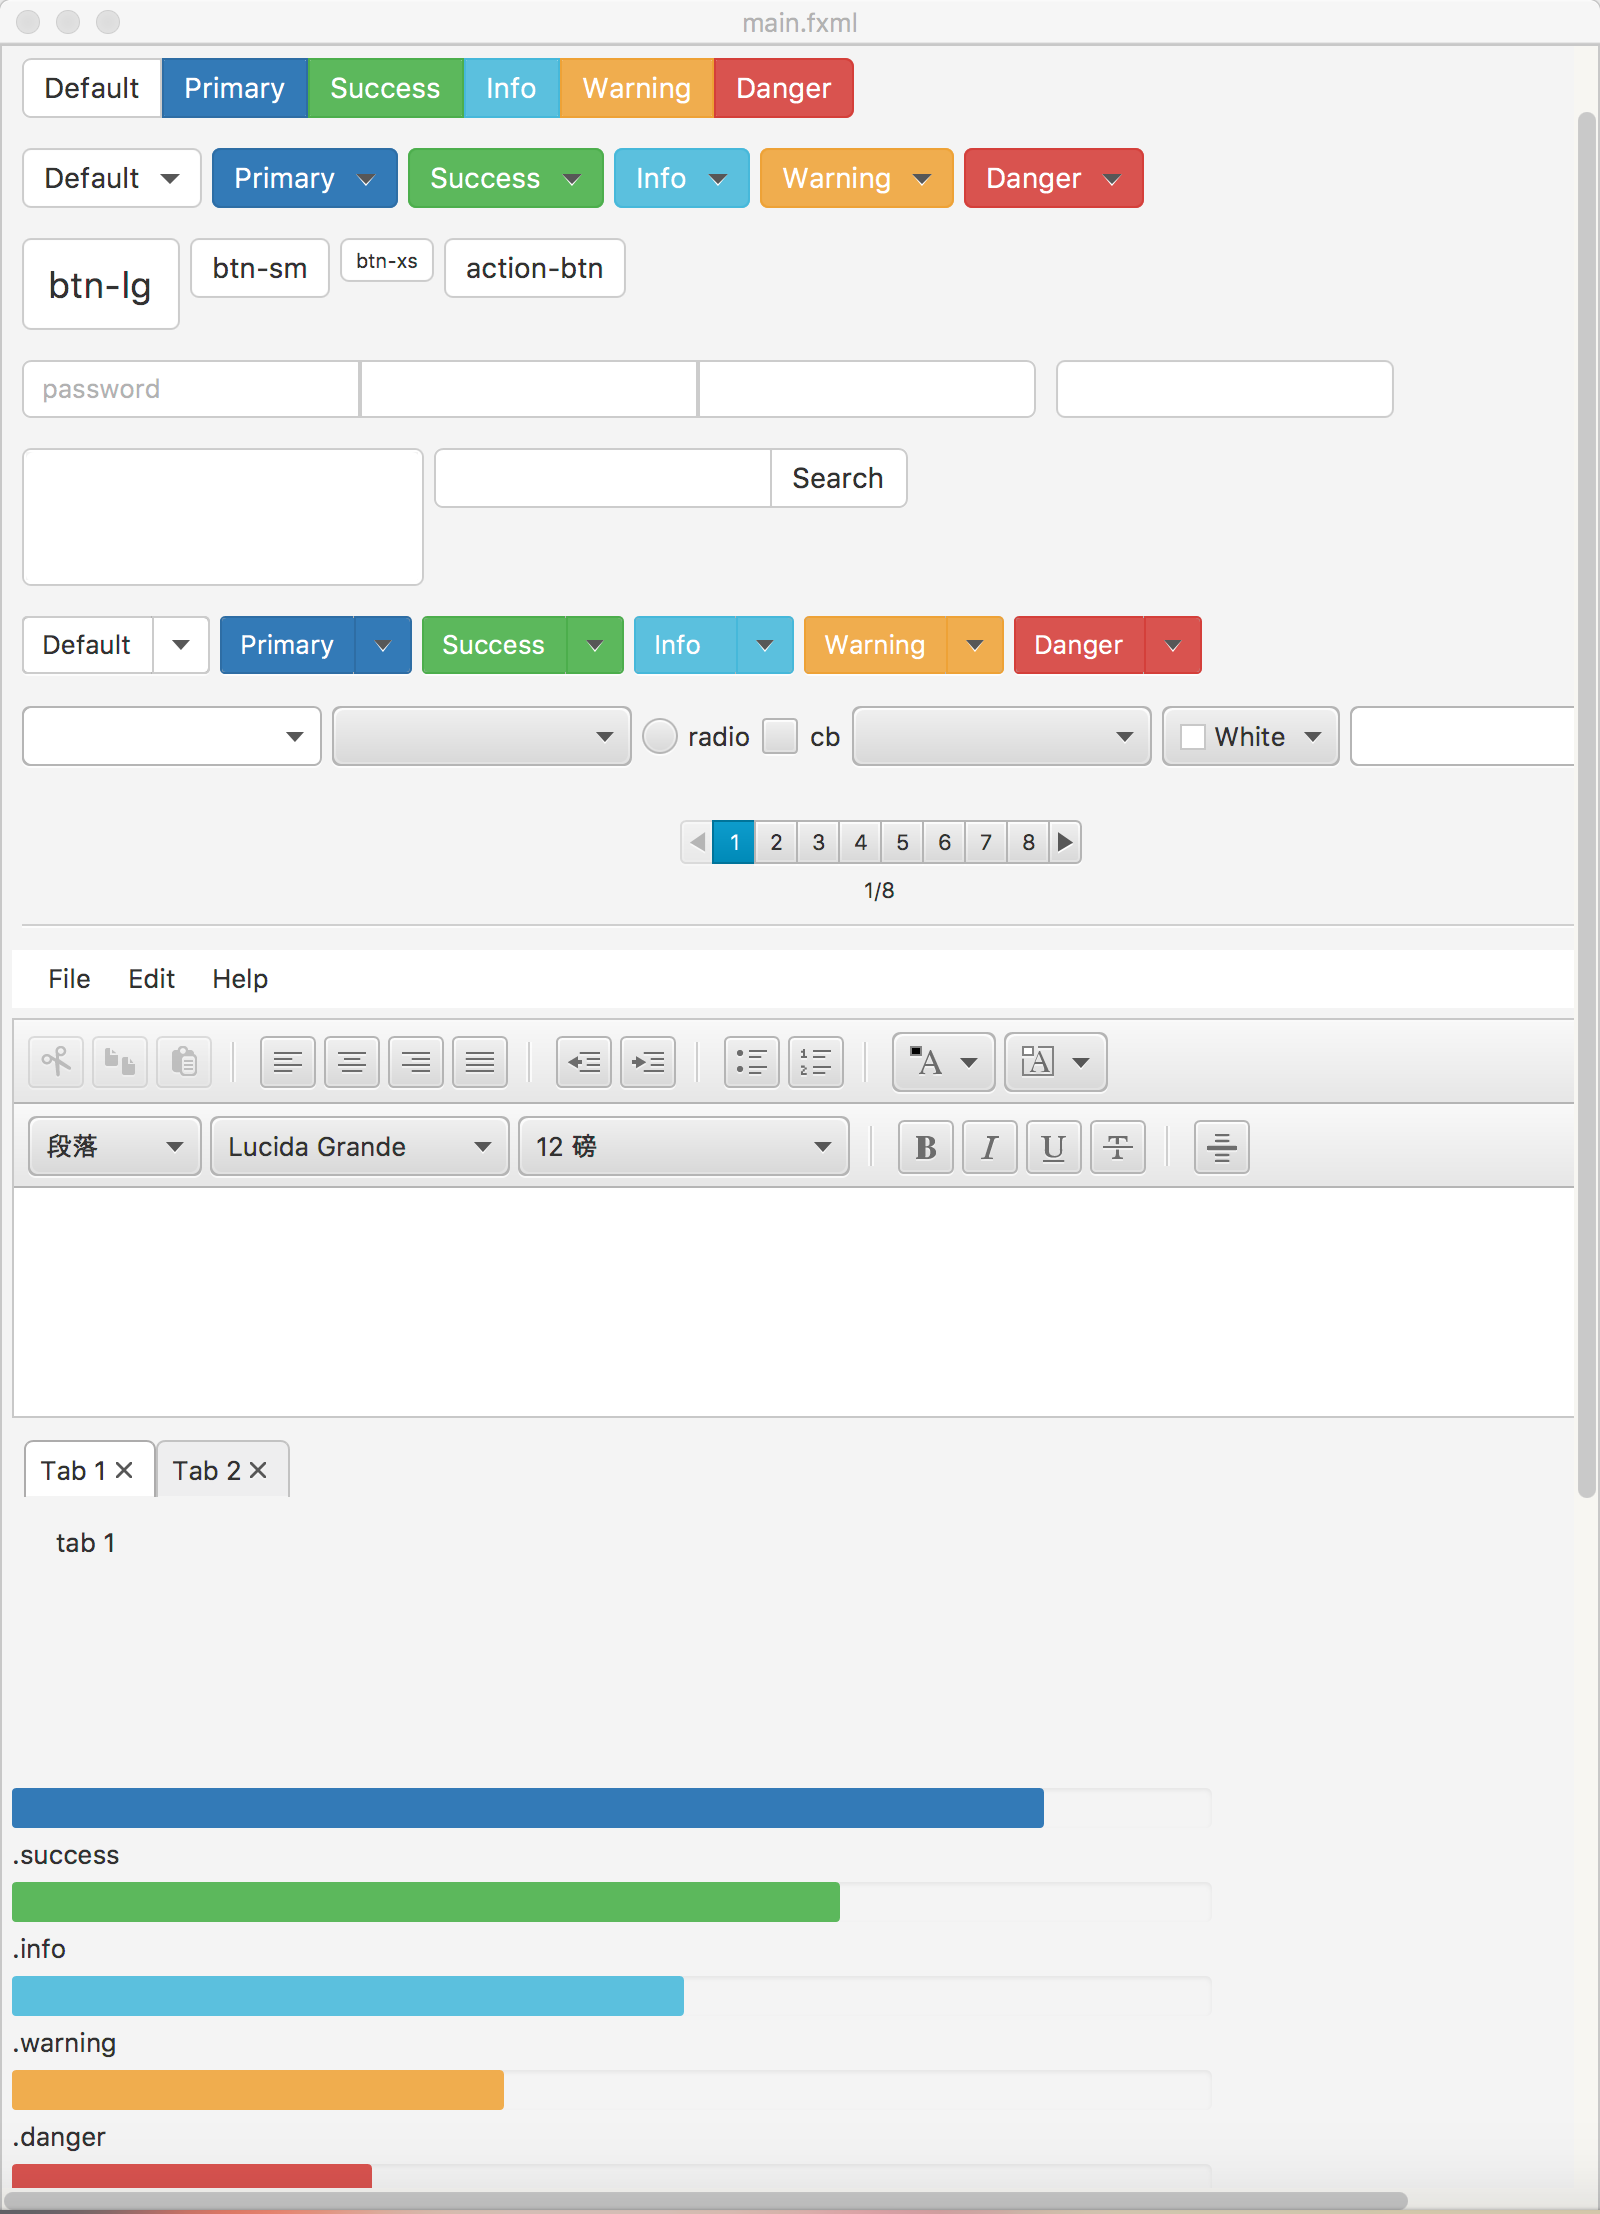
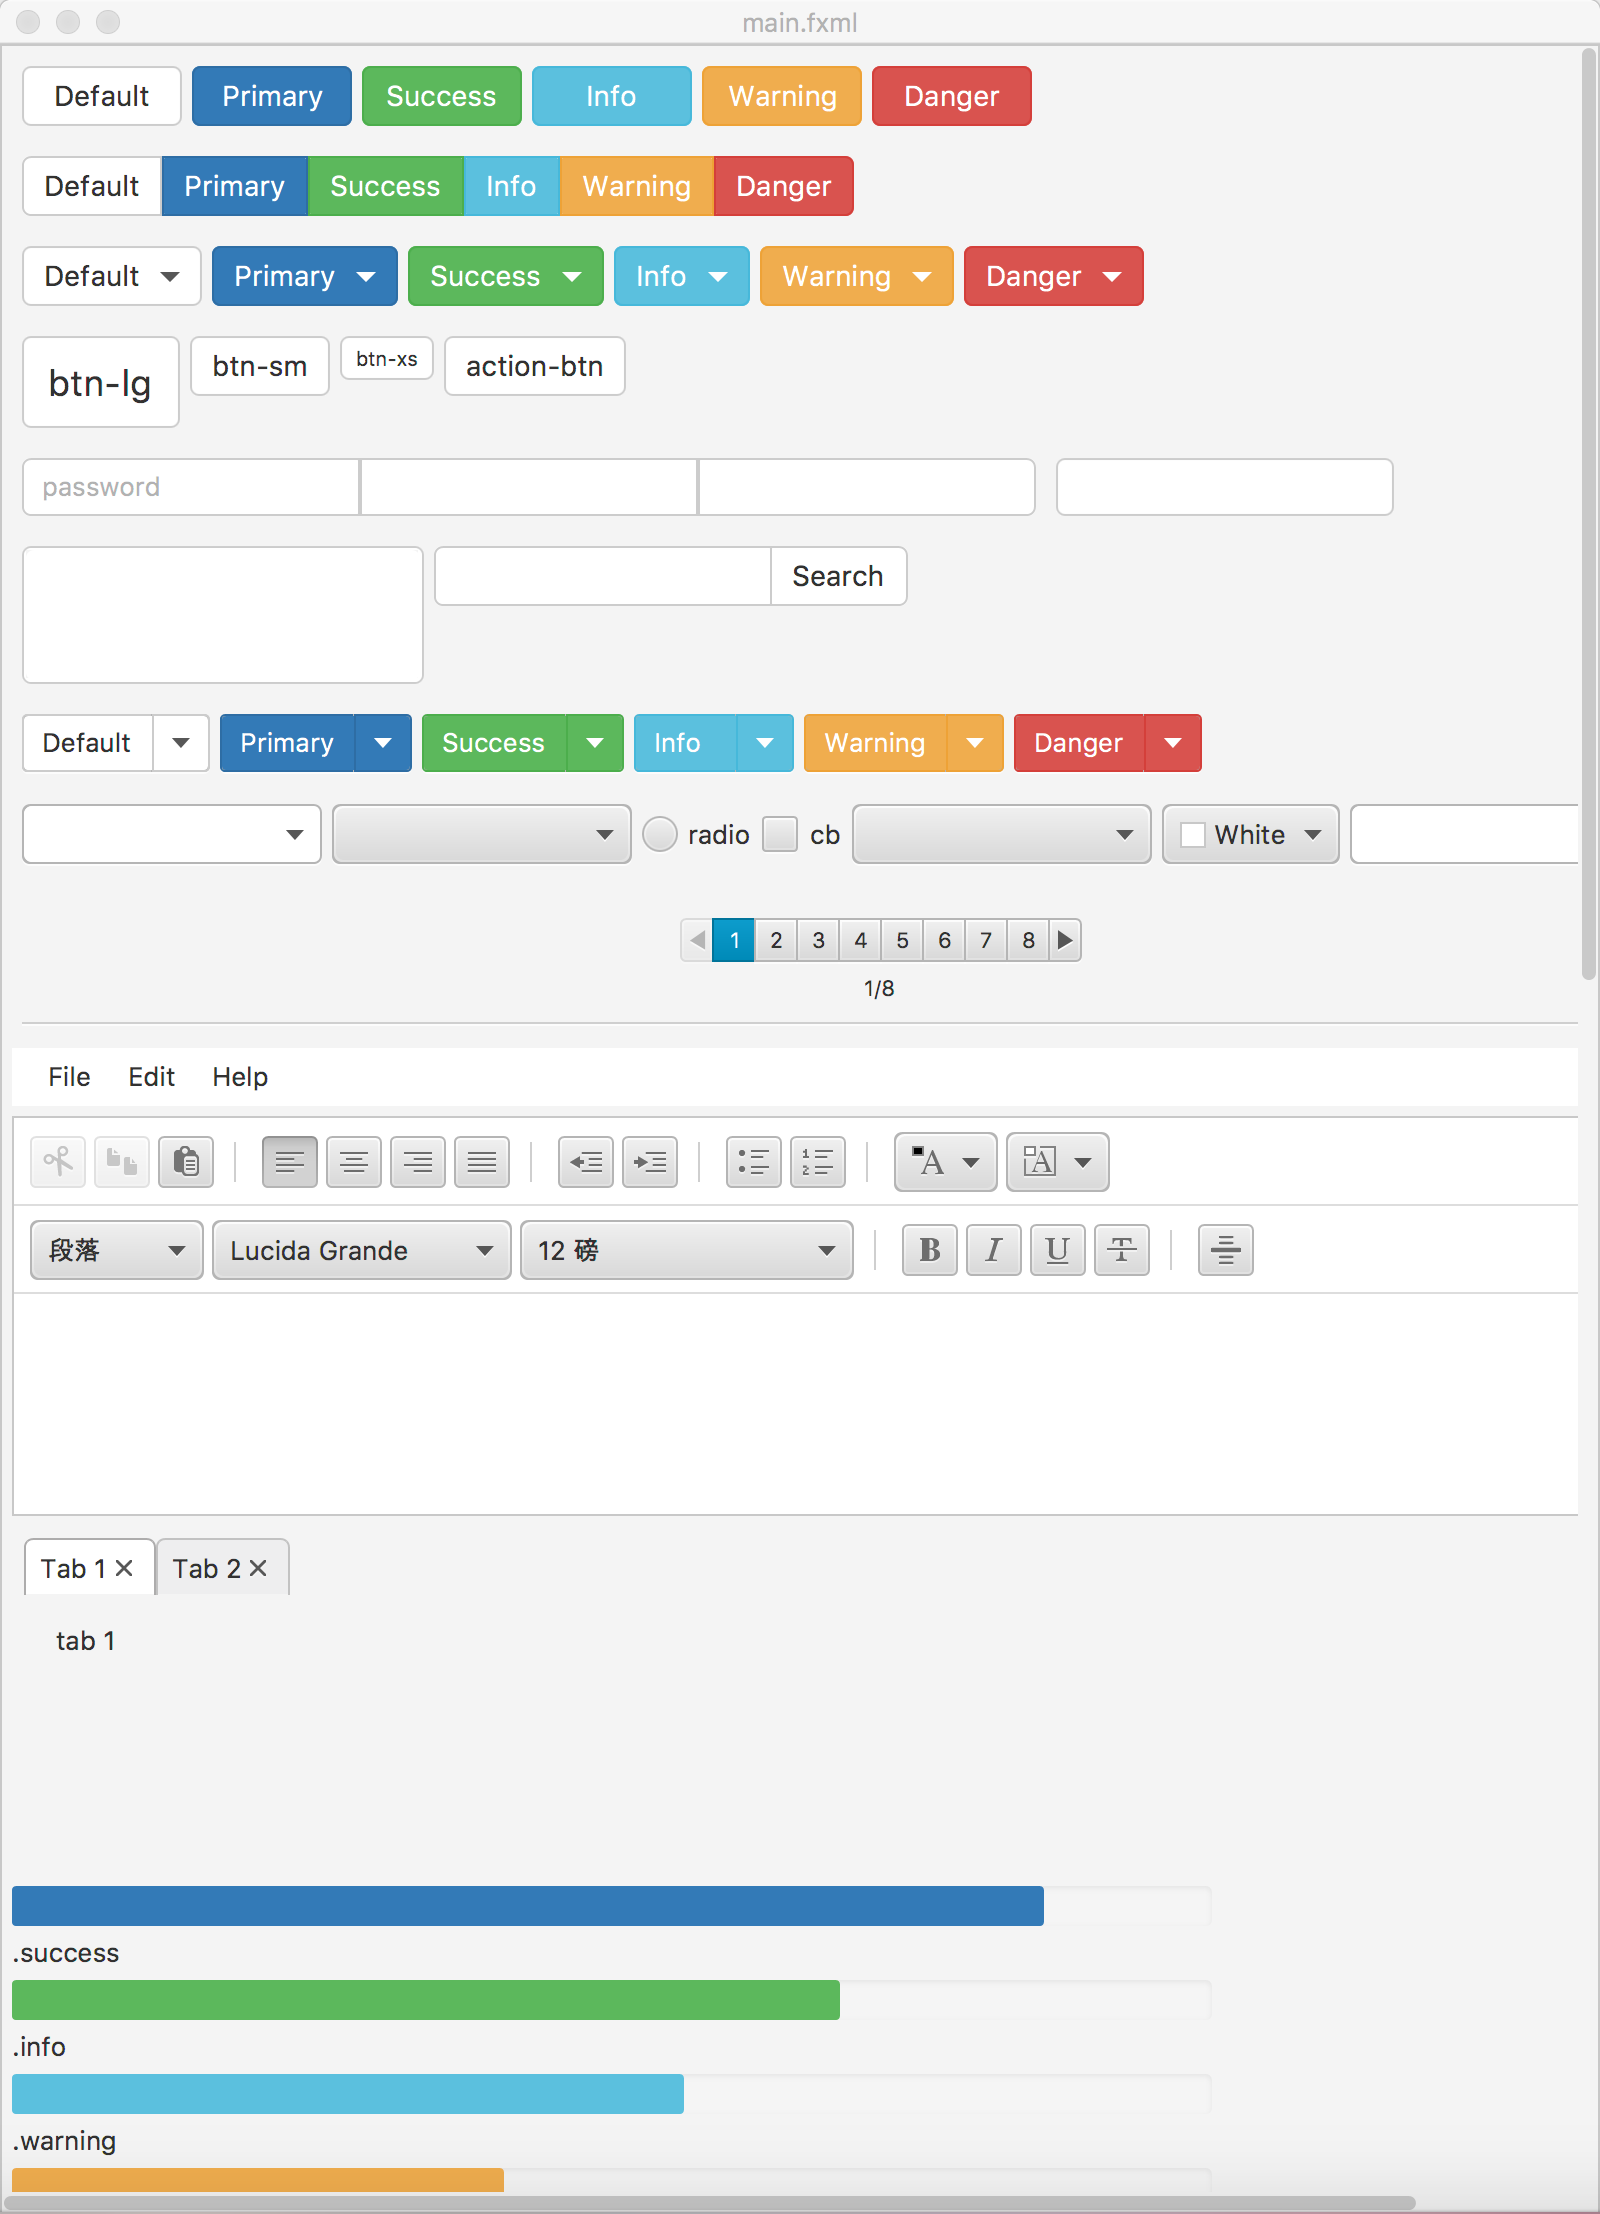
arrow color promoted some bootstrap classes for panel added

diff --git a/bootstrap.css b/bootstrap.css
@@ -22,6 +22,14 @@
 	-fx-font-size: 10;
 }
 
+.primary .arrow,
+.success .arrow,
+.info .arrow,
+.warning .arrow,
+.danger .arrow {
+	-fx-background-color: transparent, white;
+}
+
 .menu-button.btn.primary > *, .menu-button.btn.success > *, .menu-button.btn.info > *, .menu-button.btn.warning > *, .menu-button.btn.danger > *,
 .split-menu-button.primary > *, .split-menu-button.success > *, .split-menu-button.info > *, .split-menu-button.warning > *, .split-menu-button.danger > * {
 	-fx-text-fill: white;
@@ -55,6 +63,7 @@
 }
 
 .btn.default:pressed,.btn.default:selected {
+	-fx-background-color: #e6e6e6;
 	-fx-effect: innershadow(gaussian, #adadad, 10, 0, 0, 3);
 }
 
@@ -84,6 +93,7 @@
 }
 
 .split-menu-button.default:pressed > .label, .split-menu-button.default > .arrow-button:pressed {
+	-fx-background-color: #e6e6e6;
 	-fx-effect: innershadow(gaussian, #adadad, 10, 0, 0, 3);
 }
 
@@ -99,6 +109,7 @@
 }
 
 .btn.primary:pressed,.btn.primary:selected {
+	-fx-background-color: #286090;
 	-fx-effect: innershadow(gaussian, #204d74, 10, 0, 0, 3);
 }
 
@@ -128,6 +139,7 @@
 }
 
 .split-menu-button.primary:pressed > .label, .split-menu-button.primary > .arrow-button:pressed {
+	-fx-background-color: #255f92;
 	-fx-effect: innershadow(gaussian, #204d74, 10, 0, 0, 3);
 }
 
@@ -143,6 +155,7 @@
 }
 
 .btn.success:pressed,.btn.success:selected {
+	-fx-background-color: #449d44;
 	-fx-effect: innershadow(gaussian, #398439, 10, 0, 0, 3);
 }
 
@@ -172,6 +185,7 @@
 }
 
 .split-menu-button.success:pressed > .label, .split-menu-button.success > .arrow-button:pressed {
+	-fx-background-color: #449d44;
 	-fx-effect: innershadow(gaussian, #398439, 10, 0, 0, 3);
 }
 
@@ -187,6 +201,7 @@
 }
 
 .btn.info:pressed,.btn.info:selected {
+	-fx-background-color: #31b0d5;
 	-fx-effect: innershadow(gaussian, #269abc, 10, 0, 0, 3);
 }
 
@@ -216,6 +231,7 @@
 }
 
 .split-menu-button.info:pressed > .label, .split-menu-button.info > .arrow-button:pressed {
+	-fx-background-color: #31b0d5;
 	-fx-effect: innershadow(gaussian, #269abc, 10, 0, 0, 3);
 }
 
@@ -231,6 +247,7 @@
 }
 
 .btn.warning:pressed,.btn.warning:selected {
+	-fx-background-color: #ec971f;
 	-fx-effect: innershadow(gaussian, #d58512, 10, 0, 0, 3);
 }
 
@@ -260,6 +277,7 @@
 }
 
 .split-menu-button.warning:pressed > .label, .split-menu-button.warning > .arrow-button:pressed {
+	-fx-background-color: #ec971f;
 	-fx-effect: innershadow(gaussian, #d58512, 10, 0, 0, 3);
 }
 
@@ -275,6 +293,7 @@
 }
 
 .btn.danger:pressed,.btn.danger:selected {
+	-fx-background-color: #c9302c;
 	-fx-effect: innershadow(gaussian, #ac2925, 10, 0, 0, 3);
 }
 
@@ -304,6 +323,7 @@
 }
 
 .split-menu-button.danger:pressed > .label, .split-menu-button.danger > .arrow-button:pressed {
+	-fx-background-color: #c9302c;
 	-fx-effect: innershadow(gaussian, #ac2925, 10, 0, 0, 3);
 }
 
@@ -390,14 +410,18 @@
 	-fx-focus-color: transparent;
 }
 
+.tab-pane:focused > .tab-header-area > .headers-region > .tab:selected .focus-indicator {
+	-fx-border-color: transparent;
+}
+
 .scroll-bar {
-	-fx-background-color: #F7F6F2;
+	-fx-background-color: transparent;
 	-fx-background-radius: 0;
 	-fx-block-increment: 50;
 }
 
 .corner {
-	-fx-background-color: #f7f6f2;
+	-fx-background-color: transparent;
 }
 
 .scroll-bar .decrement-button, .scroll-bar .decrement-arrow {
@@ -413,11 +437,11 @@
 }
 
 .scroll-bar:vertical {
-	-fx-pref-width: 12;
+	-fx-pref-width: 10;
 }
 
 .scroll-bar:horizontal {
-	-fx-pref-height: 12;
+	-fx-pref-height: 10;
 }
 
 .scroll-bar:horizontal .track,
@@ -453,7 +477,7 @@
 
 .scroll-bar:horizontal .thumb:pressed,
 .scroll-bar:vertical .thumb:pressed {
-	-fx-background-color: #b5b5b5;
+	-fx-background-color: #a0a0a0;
 }
 
 .scroll-bar:vertical .increment-button, .scroll-bar:vertical .decrement-button {
@@ -482,9 +506,9 @@
 
 .progress-bar>.track {
 	-fx-pref-height: 10;
-	-fx-background-color: #f4f4f4;
 	-fx-background-radius: 3;
-	-fx-effect: innershadow(gaussian, #e4e4e4, 3, 0, 0, 1);
+	-fx-effect: innershadow(gaussian, #e4e4e4, 4, 0, 0, 1);
+	-fx-background-color: #f5f5f5;
 }
 .progress-bar>.bar {
 	-fx-background-insets: 0;
@@ -544,5 +568,98 @@
 	-fx-border-color: #ebccd1;
 }
 
+.titled-pane > .title {
+	-fx-background-color: #f5f5f5;
+	-fx-border-color: #dddddd;
+	/*-fx-background-insets: 5, 1, 5;*/
+	-fx-background-radius: 3 3 0 0, 2 2 0 0, 1 1 0 0;
+	-fx-border-radius: 3 3 0 0, 2 2 0 0, 1 1 0 0;
+	-fx-padding: 11
+}
+.titled-pane > .content {
+	-fx-background-color: white;
+	-fx-background-radius: 0 0 4 4;
+	-fx-border-radius: 0 0 4 4;
+	-fx-border-color: #dddddd;
+}
+
+.titled-pane.primary {
+	-fx-text-fill: white;
+}
+.titled-pane.primary > .title {
+	-fx-background-color: #337ab7;
+	-fx-border-color: #337ab7;
+}
+.titled-pane.primary > .content {
+	-fx-border-color: #337ab7;
+}
+
+.titled-pane.success .arrow,
+.titled-pane.info .arrow,
+.titled-pane.warning .arrow,
+.titled-pane.danger .arrow {
+	-fx-background-color: -fx-mark-highlight-color, -fx-mark-color;
+}
+
+.titled-pane.success {
+	-fx-text-fill: #3c763d;
+}
+.titled-pane.success > .title {
+	-fx-background-color: #dff0d8;
+	-fx-border-color: #d6e9c6;
+}
+.titled-pane.success > .content {
+	-fx-border-color: #d6e9c6;
+}
+
+.titled-pane.info {
+	-fx-text-fill: #31708f;
+}
+.titled-pane.info > .title {
+	-fx-background-color: #d9edf7;
+	-fx-border-color: #bce8f1;
+}
+.titled-pane.info > .content {
+	-fx-border-color: #bce8f1;
+}
+
+.titled-pane.warning {
+	-fx-text-fill: #8a6d3b;
+}
+.titled-pane.warning > .title {
+	-fx-background-color: #fcf8e3;
+	-fx-border-color: #faebcc;
+}
+.titled-pane.warning > .content {
+	-fx-border-color: #faebcc;
+}
+
+.titled-pane.danger {
+	-fx-text-fill: #a94442;
+}
+.titled-pane.danger > .title {
+	-fx-background-color: #f2dede;
+	-fx-border-color: #eacbd0;
+}
+.titled-pane.danger > .content {
+	-fx-border-color: #eacbd0;
+}
+
+.accordion > .titled-pane > .title,
+.accordion > .first-titled-pane > .content {
+	-fx-background-radius: 0;
+	-fx-border-radius: 0;
+}
+
+.tool-bar:vertical { /* left */
+	-fx-border-color: transparent #dddddd transparent transparent;
+}
+.tool-bar { /* top */
+	-fx-background-color: white;
+	-fx-border-color: transparent transparent #dddddd transparent;
+}
+.tool-bar:vertical.right {
+	-fx-background-insets: 0, 0 1 0 0;
+}
 
 

diff --git a/README.md b/README.md
@@ -7,6 +7,8 @@ no worry, jbootx is what u r lookin for!
 have a look at it!
 
 ![](images/overview.png)
+![](images/overview1.png)
+![](images/overview2.png)
 
 it's very easy to use! that means,no java code is required!
 
